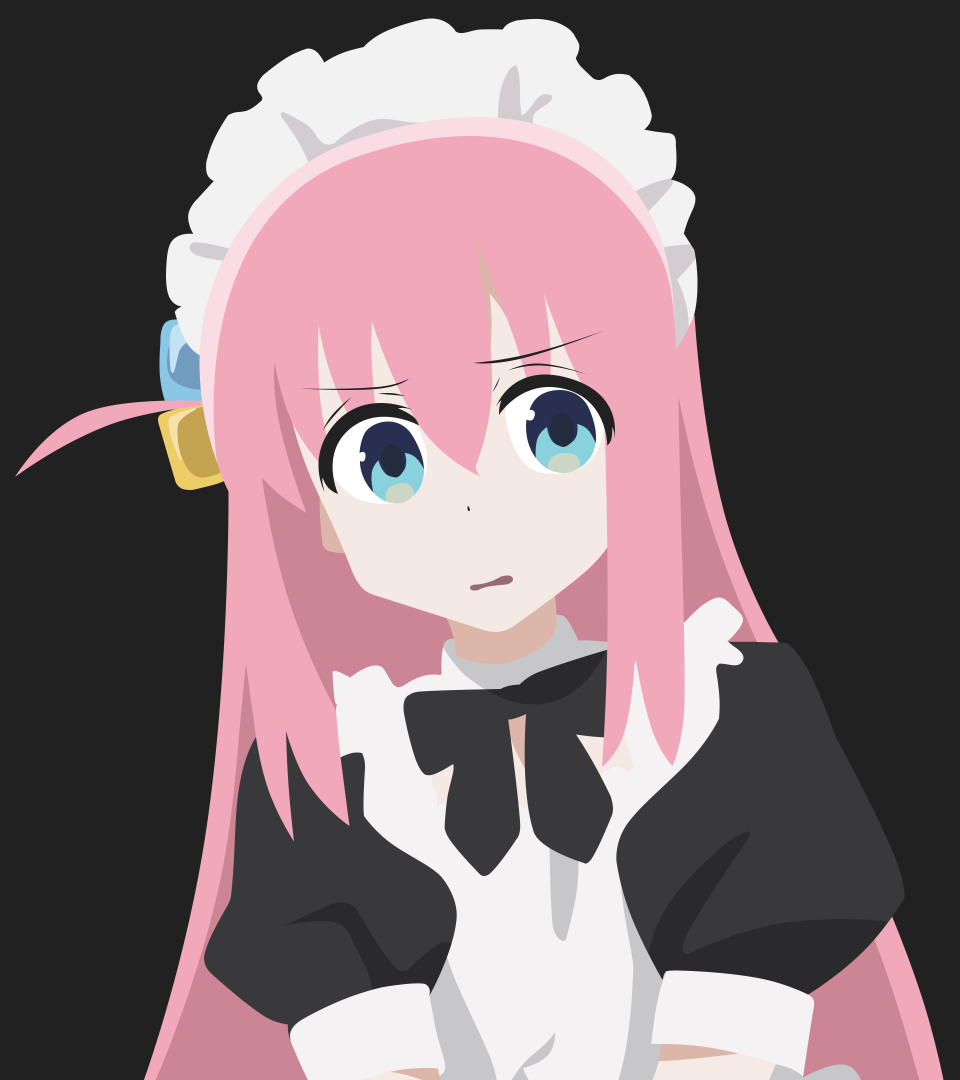
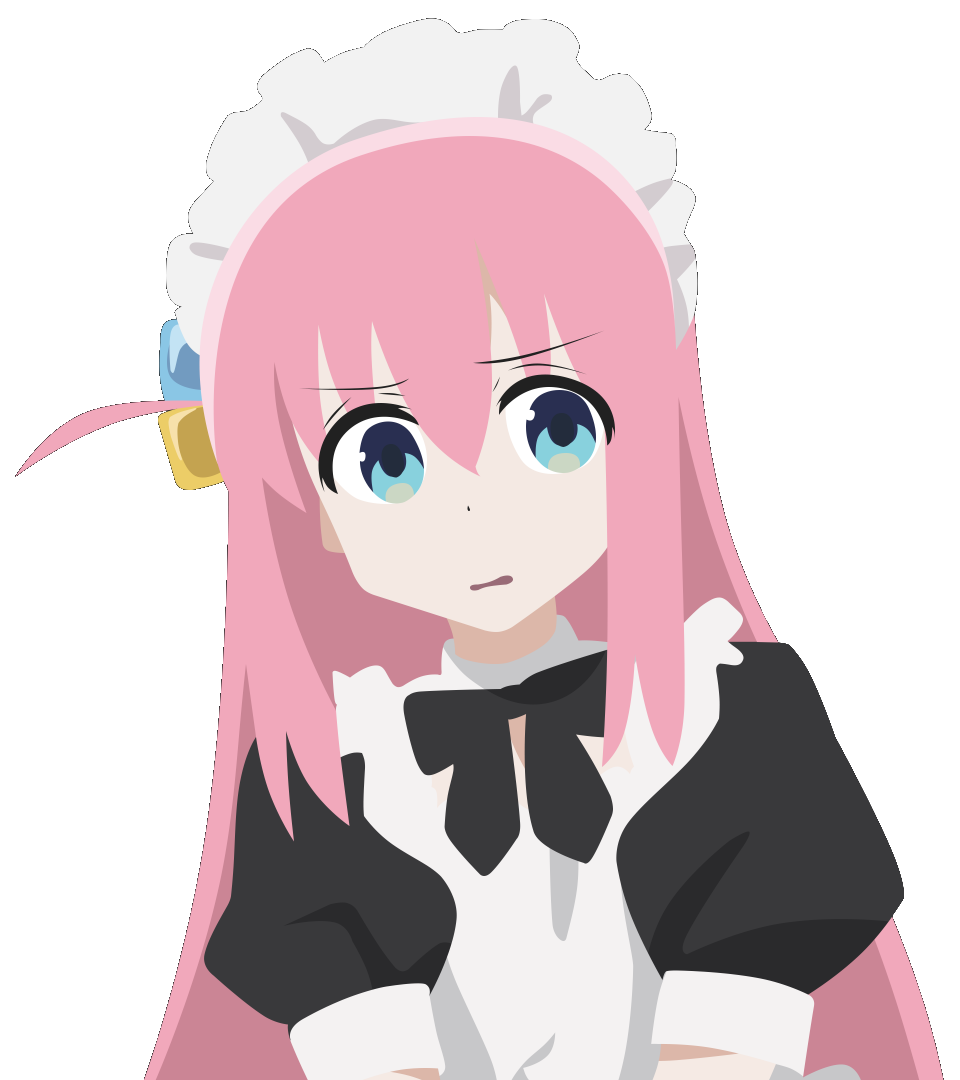
added transparency to bocchi, added css to main site, added about me and chemistry.html. added 88x31 buttons

diff --git a/index.html b/index.html
@@ -2,14 +2,41 @@
 <html>
     <head>
         <title>MatFem</title>
+	<link rel="stylesheet" href="style.css" />
     </head>
     <body>
-        <p><strong>Mat</strong>ematyka <strong>F</strong>izyka Ch<strong>em</strong>ia</p>
+
+	    <div class="linkz">	
         <a href="math.html">Matematyka</a>
         <a href="physics.html">Fizyka</a>
-
-        
+	<a href="chemistry.html">Chemia</a>
+	<a href="abtme.html">O Mnie</a>
+	<br></br>
+		
+	
+	<p> 88x31s </p>
+	 <img src="8831/0.gif">
+	 <img src="8831/1.gif">
+	 <img src="8831/2.gif">
+	 <img src="8831/wave.gif">
+	 <img src="8831/3.gif">
+	 <img src="8831/4.gif">
+	 <img src="8831/5.gif">
+	 <!-- yeah whatever--!>        
+	<br></br>
         <br></br>
+	<br></br>
+        <br></br>
+	<br></br>
+        <br></br>
+	<br></br>
+        <br></br>
+	<br></br>
+        <br></br>
+	<br></br>
+	<br></br>
+	<br></br><br></br><br></br>
         <p> discord: andrek_m  matrix: andrekm:matrix.org</p>
-    </body>
+    	</div>
+	</body>
 </html>

diff --git a/style.css b/style.css
@@ -1,0 +1,40 @@
+* {
+  padding: 0;
+  margin: 0;
+}
+body {
+  background-color: rgb(10, 10, 10);
+  position: center;
+  font-family: "Source Code Pro", monospace;
+}
+.linkz{
+	margin: auto;
+	text-align: center;
+	width: 100%;
+	
+}
+.links {
+  display: flex;
+  flex-direction: column;
+  justify-content: space-evenly;
+  gap: 1.5rem;
+  width: 300px;
+  margin-top: 1rem;
+  padding-top: 5px;
+  margin-left: 40px;
+  color: aliceblue;
+  font-size: 20px;
+  font-weight: 100;
+  border-color: rgb(255, 255, 255, 0);
+  border-style: solid;
+  border-width: 2px;
+}
+
+a:hover {
+  color: var(--link-hover);
+  transform: scale(1.1);
+  margin-bottom: 2px;
+  font-weight: 500;
+}
+
+

diff --git a/abtme.html b/abtme.html
@@ -1,0 +1,15 @@
+ <!DOCTYPE html>
+<html>
+    <head>
+	<link rel="stylesheet" href="style.css"/>
+
+        <title>O Mnie</title>
+           </head>
+    <body> 
+	    <div class="linkz">
+    <p>Lubie matme fizykę i chemię. W wolnym czasie programuję i słucham muzyki. Zazwyczaj używam debiana/archa z i3wm. </p>
+    <p> </p>
+    <br></br><br></br><br></br><br></br>
+	    </div>
+    </body>
+</html>

diff --git a/startpage.html b/startpage.html
@@ -38,7 +38,7 @@
             <section>
               <h3>Misc</h3>
               <ul>
-                <li><a href="https://yt.artemislena.eu/">invidious</a></li>
+                <li><a href="https://yewtu.be/">invidious</a></li>
                 <li><a href="https://catbox.moe">catbox</a></li>
                 <li><a href="https://litterbox.catbox.moe">litterbox</a></li>
               </ul>

diff --git a/math.html b/math.html
@@ -1,9 +1,13 @@
  <!DOCTYPE html>
 <html>
     <head>
+	<link rel="stylesheet" href="style.css"/>
+
         <title>Matematyka</title>
            </head>
-    <body>
+    <body> 
+	    <div class="linkz">
     <p>There's nothing in there (yet)</p>       
-   </body>
+	    </div>
+    </body>
 </html>

diff --git a/chemistry.html b/chemistry.html
@@ -3,7 +3,7 @@
     <head>
 	<link rel="stylesheet" href="style.css"/>
 
-        <title>Fizyka</title>
+        <title>Chemia</title>
            </head>
     <body> 
 	    <div class="linkz">
